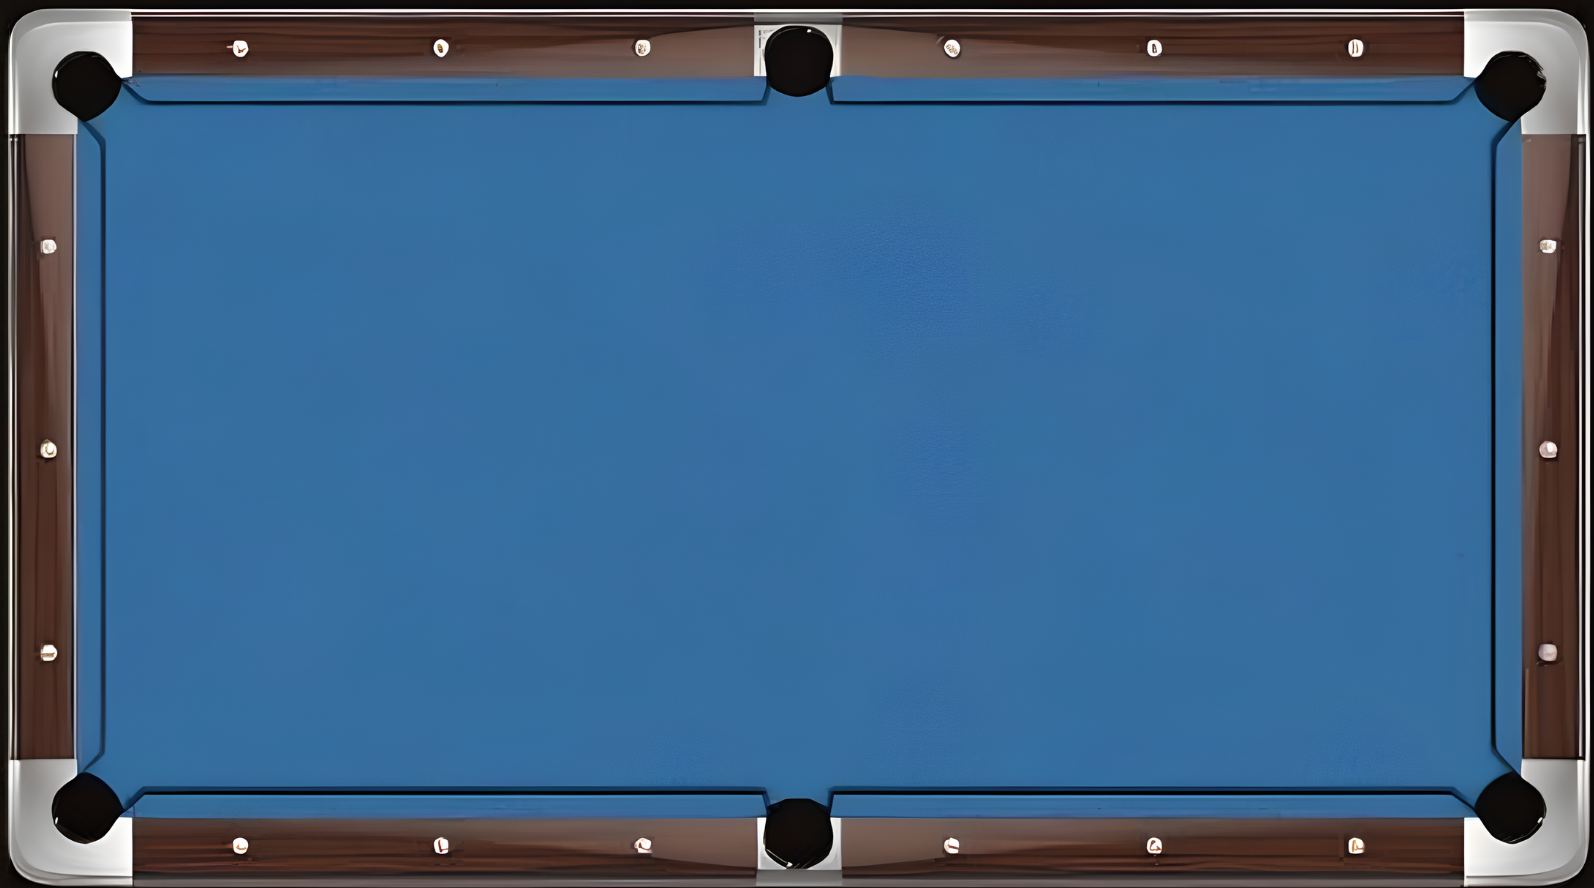
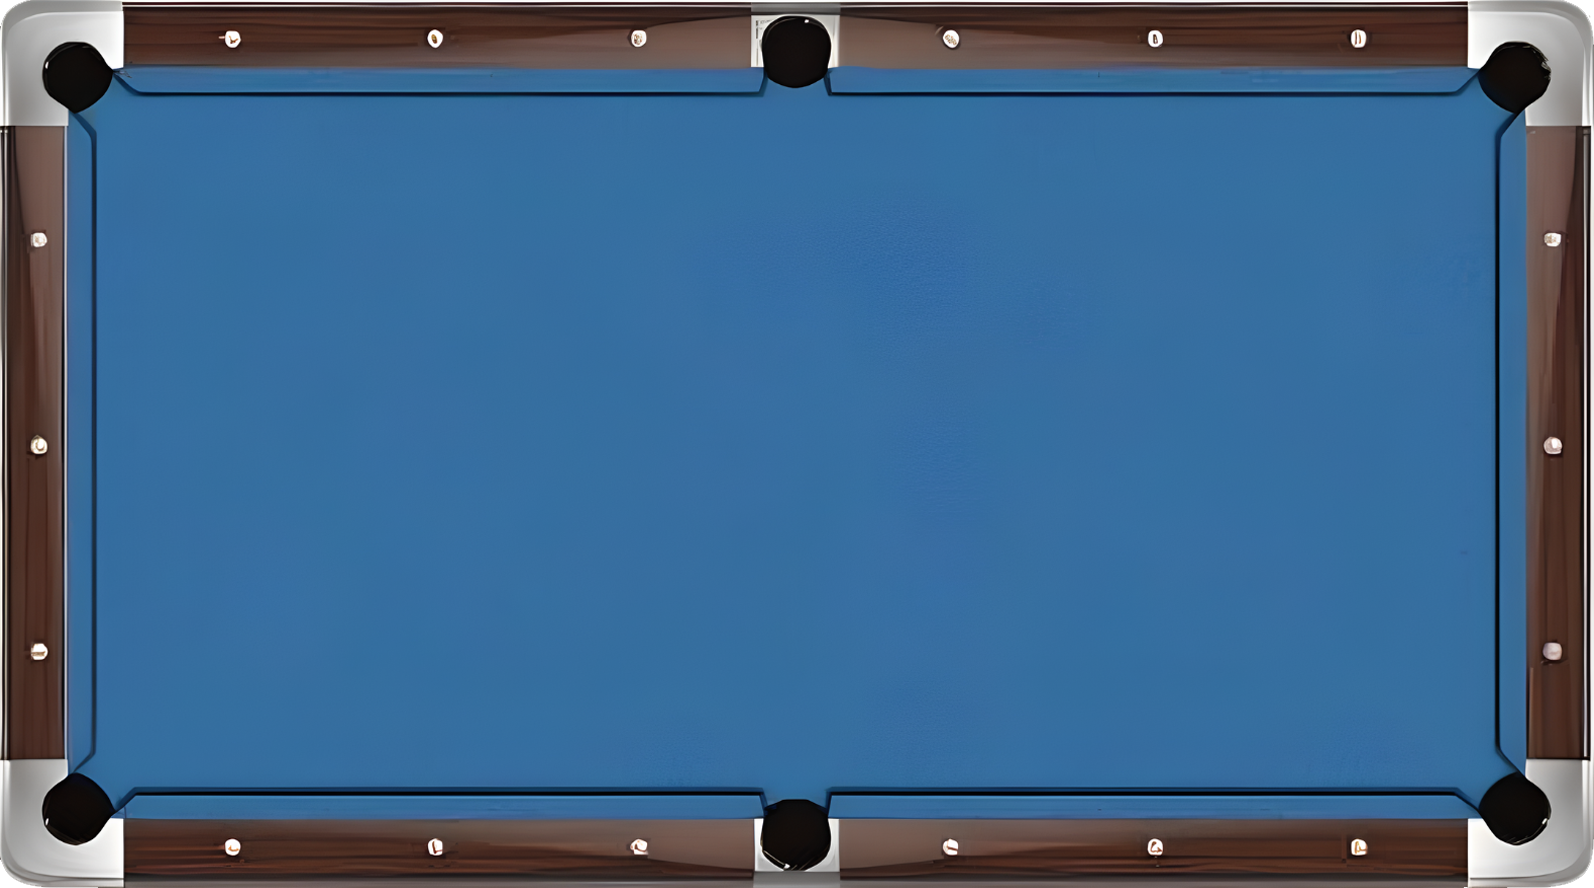
almost final
i hate this fucking project and i will never touch this shitty ass language to make a game ever again

Changed region(s): [[0.0, 0.0, 1.0, 1.0]]

diff --git a/main.py b/main.py
@@ -13,7 +13,9 @@ import utils
 
 def game():
     pygame.init()
+    pygame.font.init()
 
+    font = pygame.font.SysFont("Comic Sans MS", 30)
     surface = pygame.display.set_mode((settings.SCREEN_WIDTH, settings.SCREEN_HEIGHT))
     pygame.display.set_caption("DDU Projekt - 8ball")
 
@@ -27,8 +29,12 @@ def game():
     aiming = False
     aiming_base_y = 0
 
+    table_image = pygame.image.load("assets/images/table.png").convert_alpha()
+    wood_panel_image = pygame.image.load("assets/images/bottom_panel.png").convert_alpha()
+
     table = Table()
     table.initialize_balls()
+    table.initialize_players()
 
     utils.initialize_slab_collision_detection()
 
@@ -37,15 +43,17 @@ def game():
     _previous_y_diff = 0
 
     pockets = (
-        [86, 84],
-        [798, 61],
-        [1512, 83],
-        [1512, 809],
-        [798, 833],
-        [86, 807]
+        [73, 75],
+        [797, 53],
+        [1517, 72],
+        [1517, 811],
+        [796, 836],
+        [73, 812]
     )
     POCKET_RADIUS = 35
     foul: FoulType | None = None
+
+    game_over = False
 
     while running:
         dt = clock.tick(settings.FPS)
@@ -76,18 +84,30 @@ def game():
             if event.type == pygame.QUIT:
                 running = False
 
-        table.draw(surface)
+        table.draw(surface, table_image, wood_panel_image, font)
 
+        if game_over:
+            winner = table.get_winner()
+            length = winner.username + " won!"
+            pos = (settings.SCREEN_WIDTH // 2 - len(length), (settings.SCREEN_HEIGHT - settings.BOTTOM_PANEL_PADDING) // 2)
+
+            text_surface = font.render(winner.username + " won!", False, (255, 255, 255))
+            surface.blit(text_surface, pos)
+
+            pygame.display.update()
+            continue
+        
         any_moving = any(int(ball.body.velocity[0]) != 0 or int(ball.body.velocity[1]) != 0 for ball in table.balls)
 
         if not any_moving and balls_moving:
             balls_moving = False
+            aiming = False
 
-            if not table.shooter.has_potted_new_balls and not foul:
+            if not table.get_shooter().has_potted_new_balls and not foul:
                 table.take_turns()
                 print("switched turns, no foul")
             else:
-                table.shooter.has_potted_new_balls = False
+                table.get_shooter().has_potted_new_balls = False
                 print("potted new balls, shouldn't switch")
 
             match foul:
@@ -101,11 +121,13 @@ def game():
                     foul = None
                 case FoulType.POTTED_8BALL_EARLY:
                     # opponent win
-                    print("opponent won!")
+                    table.get_shooter().lost = True
+                    table.get_who_is_waiting().won = True
+                    game_over = True
                     foul = None
 
             # wait one second
-            time.sleep(1)
+            # time.sleep(1)
 
         balls_moving = any_moving
 
@@ -134,7 +156,7 @@ def game():
                     x_impulse = math.cos(math.radians(cue.angle))
                     y_impulse = math.sin(math.radians(cue.angle))
 
-                    table.cue_ball.body.apply_impulse_at_local_point((2000 * -x_impulse * speed, 2000 * y_impulse * speed), (0, 0))
+                    table.cue_ball.body.apply_impulse_at_local_point((750 * -x_impulse * speed, 750 * y_impulse * speed), (0, 0))
                 else:
                     cue_angle = math.radians(cue.angle)
                     cue.rect.center = (
@@ -149,11 +171,19 @@ def game():
                 if int(ball.body.velocity[0]) == 0 or int(ball.body.velocity[1]) == 0:
                     continue
 
+                # retarded ass pymunk retard monkey ass fucking library
+
+                # collision detection on pymunk is made by some absolute monkeys
+                # and for that reason stuff can go out of bounds, simply phase through
+                # the cushion. i ahte this fucking project
+                out_of_bounds = (ball.body.position[0] < 0 or ball.body.position[0] > settings.SCREEN_WIDTH) or \
+                                (ball.body.position[1] < 0 or ball.body.position[1] > settings.SCREEN_HEIGHT - settings.BOTTOM_PANEL_PADDING)
+                
                 for pocket in pockets:
                     dist_to_pocket = math.dist(ball.body.position, pocket)
 
-                    # threshold should be 45% of POCKET_RADIUS
-                    if dist_to_pocket <= POCKET_RADIUS * (1 - 0.45):
+                    # threshold should be 50% of POCKET_RADIUS
+                    if dist_to_pocket <= POCKET_RADIUS * 0.75 or out_of_bounds:
                         if ball.type == BallType.CUE:
                             print("cue ball potted, foul")
 
@@ -163,35 +193,48 @@ def game():
 
                             continue
 
-                        print(ball.__dict__)
-                        if table.shooter.has_ball_type == None or table.shooter.has_ball_type == ball.type:
-                            table.shooter.has_ball_type = ball.type
-                            table.who_is_waiting.has_ball_type = ball.type.reverse()
+                        shooter = table.get_shooter()
+                        who_is_waiting = table.get_who_is_waiting()
 
-                            table.shooter.potted_balls.append(ball)
+                        if shooter.has_ball_type == None or shooter.has_ball_type == ball.type:
+                            shooter.has_ball_type = ball.type
+                            who_is_waiting.has_ball_type = ball.type.reverse()
 
-                            table.shooter.has_potted_new_balls = True
+                            shooter.potted_balls.append(ball)
+
+                            shooter.has_potted_new_balls = True
                             print("shooter potted their own ball in")
 
-                        if table.shooter.has_ball_type != ball.type:
-                            if not table.shooter.has_potted_new_balls:
+                        if shooter.has_ball_type != ball.type and ball.type != BallType.EIGHT_BALL:
+                            if not shooter.has_potted_new_balls and not out_of_bounds:
                                 print("shooter potted the wrong ball first")
                                 foul = FoulType.POTTED_WRONG_BALL
 
-                            table.who_is_waiting.potted_balls.append(ball)
+                            who_is_waiting.potted_balls.append(ball)
 
-                        if len(table.shooter.potted_balls) < 7 and ball.type == BallType.EIGHT_BALL:
+                        if len(shooter.potted_balls) < 7 and ball.type == BallType.EIGHT_BALL:
                             print("shooter potted the 8ball too early. loss")
                             foul = FoulType.POTTED_8BALL_EARLY
 
                             table.balls.remove(ball)
                             utils.SPACE.remove(ball.body)
-                            
+
                             break
 
+                        if len(shooter.potted_balls) == 7 and ball.type == BallType.EIGHT_BALL:
+                            shooter.won = True
+                            game_over = True
 
-                        table.balls.remove(ball)
-                        utils.SPACE.remove(ball.body)
+                            table.balls.remove(ball)
+                            utils.SPACE.remove(ball.body)
+
+                            break
+
+                        if ball in table.balls:
+                            table.balls.remove(ball)
+                        
+                        if ball in utils.SPACE.bodies:
+                            utils.SPACE.remove(ball.body)
 
         if settings.DEBUG:
             utils.SPACE.debug_draw(draw_options)

diff --git a/objects/table.py b/objects/table.py
@@ -15,37 +15,51 @@ class Table:
     def cue_ball(self) -> Ball:
         return self.balls[-1]
     
-    @property
-    def shooter(self) -> Player:
-        return self.players[0] if self.players[0].is_shooting else self.players[1]
+    def get_shooter(self) -> Player:
+        for player in self.players:
+            if player.is_shooting:
+                return player
     
-    @property
-    def who_is_waiting(self) -> Player:
-        return self.players[0] if not self.players[0].is_shooting else self.players[1]
+    def get_who_is_waiting(self) -> Player:
+        for player in self.players:
+            if not player.is_shooting:
+                return player
+            
+    def get_winner(self) -> Player | None:
+        for player in self.players:
+            if player.won:
+                return player
+            
+    def get_loser(self) -> Player | None:
+        for player in self.players:
+            if player.lost:
+                return player
     
     def take_turns(self) -> None:
-        self.shooter.is_shooting = False
-        self.who_is_waiting.is_shooting = True
+        for player in self.players:
+            if player.is_shooting:
+                player.is_shooting = False
+            elif not player.is_shooting:
+                player.is_shooting = True
 
     def initialize_balls(self) -> None:
         positions = []
-        dist = settings.BALL_RADIUS * 2
-        for i in range(5):
-            for j in range(4):
-                x = i * dist
-                y = j * dist + i * (dist / 2)
-                positions.append((x + 200, y + 200))
+        diameter = settings.BALL_RADIUS * 2
+        columns = 5
+        for i in range(columns):
+            for j in range(columns - i):
+                x = i * diameter
+                y = j * diameter + i * (diameter / 2)
+                positions.append((x + settings.SCREEN_WIDTH / 4, y + (settings.SCREEN_HEIGHT - settings.BOTTOM_PANEL_PADDING) // 2 - diameter * 2.5))
 
         for ball in range(15):
             ball_type = BallType.SOLID
-            # 8ball
+            
             if ball + 1 == 8:
                 ball_type = BallType.EIGHT_BALL
-            # stripe
+            
             if ball + 1 > 8:
                 ball_type = BallType.STRIPE
-
-            print(ball + 1)
 
             ball_obj = Ball.create(positions[ball], ball_type)
             ball_obj.image = pygame.image.load(f"assets/images/balls/ball_{ball + 1}.png").convert_alpha()
@@ -55,7 +69,7 @@ class Table:
         cue_ball = Ball.create(
             (
                 settings.SCREEN_WIDTH / 1.5, 
-                settings.SCREEN_HEIGHT // 2 + 20
+                (settings.SCREEN_HEIGHT - settings.BOTTOM_PANEL_PADDING) // 2
             ), 
             type = BallType.CUE
         )
@@ -63,10 +77,13 @@ class Table:
 
         self.balls.append(cue_ball)
 
+    def initialize_players(self) -> None:
+        self.players.append(Player("Simon", True))
+        self.players.append(Player("Noob"))
 
-    def draw(self, surface: pygame.Surface) -> None:
-        table = pygame.image.load("assets/images/table.png").convert_alpha()
-        surface.blit(table, (0, 0))
+    def draw(self, surface: pygame.Surface, table_image, wood_panel_image, font) -> None:
+        surface.blit(wood_panel_image, (0, 0))
+        surface.blit(table_image, (0, 0))
 
         DEBUG_COLORS = (
             (255, 0, 0),    # red
@@ -86,5 +103,5 @@ class Table:
         for ball in self.balls:
             ball.draw(surface)
 
-        # template
-        self.players.append(Player("Simon"))
+        for i, player in enumerate(self.players):
+            player.draw(surface, (settings.SCREEN_WIDTH / (3 * (i + 1) / 2), settings.SCREEN_HEIGHT - settings.BOTTOM_PANEL_PADDING / 2), font)

diff --git a/objects/player.py b/objects/player.py
@@ -1,6 +1,9 @@
 from dataclasses import dataclass
 from enum import IntEnum
+
+from pygame import Surface
 from objects.ball import Ball, BallType
+import utils
 
 class FoulType(IntEnum):
     POTTED_CUE_BALL = 0
@@ -9,10 +12,22 @@ class FoulType(IntEnum):
     POTTED_8BALL_EARLY = 3
 
 class Player:
-    def __init__(self, username: str) -> None:
+    def __init__(self, username: str, is_shooting: bool = False) -> None:
         self.username: str = username
         self.potted_balls: list[Ball] = []
 
-        self.is_shooting: bool = False
+        self.is_shooting: bool = is_shooting
         self.has_ball_type: BallType | None = None
         self.has_potted_new_balls: bool = False
+
+        self.won: bool = False
+        self.lost: bool = False
+
+    def draw(self, surface: Surface, position: tuple[int, int], font) -> None:
+        color = (0, 255, 0) if self.is_shooting else (0, 0, 0)
+        text_surface = font.render(self.username, False, color)
+        surface.blit(text_surface, position)
+        
+        for i, potted_ball in enumerate(self.potted_balls):
+            draw_at = (position[0] + (20 * i), position[1] + 30)
+            surface.blit(potted_ball.image, draw_at)

diff --git a/utils.py b/utils.py
@@ -1,15 +1,16 @@
+import pygame
 import pymunk
 import pymunk.pygame_util
 
 SPACE = pymunk.Space()
 
 SLABS = (
-    ((122, 79), (146, 100), (761, 100), (766, 86), (766, 77)),
-    ((830, 77), (830, 86), (834, 100), (1451, 100), (1476, 77)),
-    ((1520, 117), (1495, 145), (1495, 746), (1520, 775)),
-    ((1477, 816), (1452, 795), (834, 795), (830, 815)),
-    ((766, 816), (766, 810), (762, 795), (144, 795), (119, 816)),
-    ((77, 774), (100, 751), (100, 147), (78, 117))
+    ((113, 72), (139, 92), (758, 92), (763, 68)),
+    ((827, 69), (832, 92), (1452, 92), (1479, 69)),
+    ((1524, 109), (1500, 139), (1500, 748), (1524, 775)),
+    ((1481, 817), (1455, 795), (832, 795), (828, 817)),
+    ((763, 817), (758, 795), (135, 795), (111, 816)),
+    ((68, 775), (90, 751), (90, 139), (69, 110))
 )
 
 def initialize_slab_collision_detection() -> None:
@@ -18,6 +19,6 @@ def initialize_slab_collision_detection() -> None:
         body.position = ((0, 0))
 
         shape = pymunk.Poly(body, positions)
-        shape.elasticity = 0.5
+        shape.elasticity = 0.8
 
         SPACE.add(body, shape)

diff --git a/settings.py b/settings.py
@@ -1,8 +1,10 @@
-SCREEN_HEIGHT = 888
+BOTTOM_PANEL_PADDING = 200
+
+SCREEN_HEIGHT = 888 + BOTTOM_PANEL_PADDING
 SCREEN_WIDTH = 1594
 
-FPS = 180
-BALL_RADIUS = 25
+FPS = 120
+BALL_RADIUS = 18
 
 DEBUG = False
 
